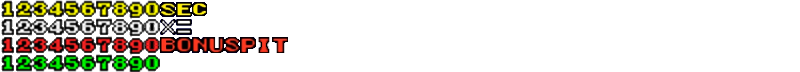
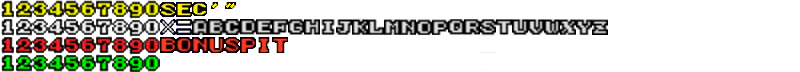
Save the time of each stage
Now when you hit a checkpoint you save
your time and this time is shown on the screen.

Changed region(s): [[0.2188, 0.25, 0.7812, 0.5], [0.25, 0.0278, 0.3125, 0.1389]]

diff --git a/SuperHandOn/SuperHandOn/ModuleSceneTrack.cpp b/SuperHandOn/SuperHandOn/ModuleSceneTrack.cpp
@@ -26,6 +26,9 @@ ModuleSceneTrack::ModuleSceneTrack(bool active) : Module(active)
 	backgroundSpeed = { 275, 441, 82, 18 };
 	backgroundKm = { 367, 441, 34, 18 };
 	finishPose = { 634, 1399, 96, 145 };
+	checkFill = { 51, 552, 31, 4 };
+	gameOver = { 1154,249,180,30 };
+	extendedPlay = { 1155,295,152,16 };
 
 	Decoration*dec_tree = new Decoration();
 	dec_tree->maxX = 4;
@@ -228,6 +231,7 @@ bool ModuleSceneTrack::Start()
 	score = 0;
 	speed = 0;
 	startTime = 0;
+	lapTime = 0;
 	N = 0;
 	pos = 0;
 	realPos = 0;
@@ -318,8 +322,8 @@ bool ModuleSceneTrack::Start()
 	decorationSprite = App->textures->Load("sprites/decoration.png");
 
 	//Gui fonts
-	App->numericFontYellow = App->font->LoadMedia("fonts/fontNumber18x18.png", "1234567890SEC ", 16, 18);
-	App->numericFontWhite = App->font->LoadMedia("fonts/fontNumber18x18.png", "1234567890*= ", 16, 18, 18);
+	App->numericFontYellow = App->font->LoadMedia("fonts/fontNumber18x18.png", "1234567890SEC'\" ", 16, 18);
+	App->numericFontWhite = App->font->LoadMedia("fonts/fontNumber18x18.png", "1234567890*=ABCDEFGHIJKLMNOPQRSTUVWXYZ ", 16, 18, 18);
 	App->numericFontRed = App->font->LoadMedia("fonts/fontNumber18x18.png", "1234567890BONUSPIT ", 16, 18, 36);
 	App->numericFontGreen = App->font->LoadMedia("fonts/fontNumber18x18.png", "1234567890", 16, 18, 54);
 
@@ -332,6 +336,13 @@ bool ModuleSceneTrack::Start()
 bool ModuleSceneTrack::CleanUp()
 {
 	LOG("Unloading space scene");
+	for (unsigned int i = 0; i < enemys.size(); i++) delete(enemys[i]);
+	for (unsigned int i = 0; i < decoration.size(); i++) delete(decoration[i]);
+	for (unsigned int i = 0; i < bioms.size(); i++) delete(bioms[i]);
+	delete(finishAnimation);
+
+	saveScore();
+
 	App->textures->Unload(graphics);
 	return true;
 }
@@ -400,10 +411,16 @@ void ModuleSceneTrack::PrintTrack(float deltaTime)
 		if (lines[n%N].id != -1) {
 			if ((startPos + 10) > n && n > (startPos + 5) && checkSign == lines[n%N].id && delayCheckPoint == 0) {
 				time += 30;
+				if (lapTime < stageTimeSaved[stage - 1]) stageTimeSaved[stage - 1] = lapTime;
 				delayCheckPoint += 5;
+				checkTime = 5;
+				lastLapTime = lapTime;
+				lapTime = 0;
+				stage++;
 			}
 			else if((startPos + 10) > n && n > (startPos + 5) && goalSign == lines[n%N].id && finished == RUNNING) {
 				finished = ANIMATION;
+				stage++;
 				finishAnimation->posZ = (float)(startPos + 7);
 				goalPos = finishAnimation->posZ;
 			}
@@ -576,6 +593,8 @@ void ModuleSceneTrack::PrintGui(float deltaTime) {
 	App->renderer->Blit(gui, (int)((SCREEN_WIDTH / 10) * 6.5), (int)((SCREEN_HEIGHT / 20) * 2 + 8), &backgroundSpeed, 0.f);
 	App->renderer->Blit(gui, (int)((SCREEN_WIDTH / 10) * 8.5) + 16, (int)((SCREEN_HEIGHT / 20) * 2 + 8), &backgroundKm, 0.f);
 	App->renderer->Blit(gui, (int)((SCREEN_WIDTH / 10) * 2.7), (int)((SCREEN_HEIGHT / 20) * 2 + 8), &backgroundTrackName, 0.f, false);
+	for(int i = 1; i < stage; i++)
+		App->renderer->Blit(gui, (SCREEN_WIDTH / 20) + 21 + ((i-1)*checkFill.w), (SCREEN_HEIGHT / 20) * 4 + 7, &checkFill, 0.f);
 
 	//Text
 	App->renderer->Print(App->numericFontRed, to_string((int)maxPuntuation).c_str(), (SCREEN_WIDTH / 10) + backgroundTop.w + 5, (SCREEN_HEIGHT / 20) + 4, 0.f, false);
@@ -586,7 +605,7 @@ void ModuleSceneTrack::PrintGui(float deltaTime) {
 		App->renderer->Print(App->numericFontRed, to_string((int)speed).c_str(), (int)((SCREEN_WIDTH / 10) * 6.5) + backgroundSpeed.w , (int)((SCREEN_HEIGHT / 20) * 2 + 8), 0.f, false);
 	App->renderer->Print(App->menusFont, to_string((int)time).c_str(), SCREEN_WIDTH / 2 , SCREEN_HEIGHT / 20 * 3, 0.f);
 	App->renderer->Print(App->numericFontWhite, to_string((int)stage).c_str(), (int)((SCREEN_WIDTH / 10) * 2.4), (int)((SCREEN_HEIGHT / 20) * 3), 0.f, false);
-
+	
 	if (finished == BONUS) {
 		App->renderer->Print(App->numericFontRed, "BONUS POINTS", (SCREEN_WIDTH / 2), (SCREEN_HEIGHT / 20) * 6, 0.f, true);
 		App->renderer->Print(App->menusFont, to_string((int)time).c_str(), (SCREEN_WIDTH / 20) * 5, SCREEN_HEIGHT / 20 * 7, 0.f);
@@ -596,24 +615,39 @@ void ModuleSceneTrack::PrintGui(float deltaTime) {
 		App->renderer->Print(App->numericFontYellow, " 00000", (SCREEN_WIDTH / 20) * 17, SCREEN_HEIGHT / 20 * 7 + 7, 0.f);
 		if (timeBonus > 0) timeBonus -= deltaTime;
 	}
+
+	if(time <= 0) 
+		App->renderer->Blit(gui, (SCREEN_WIDTH / 2) - gameOver.w/2, (SCREEN_HEIGHT / 3), &gameOver, 0.f);
+
+	if (checkTime > 0) {
+		if((int)checkTime % 2 == 0) App->renderer->Blit(gui, (int)((SCREEN_WIDTH / 2) - extendedPlay.w/2), (SCREEN_HEIGHT / 20) * 6, &extendedPlay, 0.f, false);
+		App->renderer->Print(App->numericFontWhite, "LAPTIME", (SCREEN_WIDTH / 2) - (8*18) + 8, (SCREEN_HEIGHT / 20) * 7, 0.f, false);
+		App->renderer->Print(App->numericFontYellow, getTimeFromFloat(lastLapTime).c_str(), (SCREEN_WIDTH / 2) + 16, (SCREEN_HEIGHT / 20) * 7, 0.f, false);
+		App->renderer->Print(App->numericFontWhite, "BEST LAPTIME", (SCREEN_WIDTH / 2) - (12*18), (SCREEN_HEIGHT / 20) * 8, 0.f, false);
+		App->renderer->Print(App->numericFontYellow, getTimeFromFloat(stageTimeSaved[stage-2]).c_str(), (SCREEN_WIDTH / 2) + 16, (SCREEN_HEIGHT / 20) * 8, 0.f, false);
+	}
+
 }
 
 
 // Update: draw background
 update_status ModuleSceneTrack::Update(float deltaTime)
 {
-	
-	//Automove On debugmode
-	//pos += 200;
+	if (time <= 0) {
+		run = false;
+	}
 
 	if (biomSwap) swapBioma(deltaTime);
 
 	if (run && finished == RUNNING) {
-		//pos += 200;
+
 		time -= deltaTime;
-		if (time < 0) time = 0;
 		delayCheckPoint -= deltaTime;
+		checkTime -= deltaTime;
+		lapTime += deltaTime;
 		if (delayCheckPoint < 0) delayCheckPoint = 0;
+		if (checkTime < 0) checkTime = 0;
+		if (time < 0) time = 0;
 
 		int segL = SEGL;
 		if (speed < MIN_SPEED) speed += acceleration*deltaTime;
@@ -680,7 +714,8 @@ update_status ModuleSceneTrack::Update(float deltaTime)
 			pos += 200 * (realPos / segL);
 			realPos -= 200 * (realPos / segL);
 		}
-		score += 200;
+
+		score += speed * deltaTime * 10;
 		
 		//Move player to compensate the force of the curve
 		int startPos = pos / SEGL;
@@ -706,6 +741,7 @@ update_status ModuleSceneTrack::Update(float deltaTime)
 		for (unsigned int i = 0; i < enemys.size(); i++) {
 			enemys.pop_back();
 		}
+		saveScore();
 		App->audio->PauseMusic();
 		App->fade->FadeToBlack((Module*)App->scene_menu_one, this);
 	}
@@ -836,4 +872,31 @@ void ModuleSceneTrack::swapBioma(float deltaTime)
 		else biomSwapBackgroundHelper = true;
 	}
 	if (swapFinished == 27) biomSwap = false;
+}
+
+string ModuleSceneTrack::getTimeFromFloat(float time)
+{
+	string result;
+	if (time > 60) {
+		result = "1'";
+		time -= 60;
+	}
+	else result = "0'";
+	result.append(to_string((int)time));
+	result.append("\"");
+	result.append(to_string((int)(time * 100) % 100));
+	return result;
+}
+
+void ModuleSceneTrack::saveScore()
+{
+	//Record the times
+	ofstream myScore;
+	string input;
+	myScore.open("level/africaStageTime.txt");
+
+	myScore << to_string(stageTimeSaved.size()) << endl;
+	for (int i = 0; i < stageTimeSaved.size(); i++) {
+		myScore << to_string(stageTimeSaved[i]) << endl;
+	}
 }

diff --git a/SuperHandOn/SuperHandOn/ModuleSceneTrack.h b/SuperHandOn/SuperHandOn/ModuleSceneTrack.h
@@ -3,6 +3,9 @@
 
 #include "Module.h"
 #include "Animation.h"
+#include <fstream>
+#include <iostream>
+#include <string>
 
 class Line;
 class ModuleEnemy;
@@ -83,6 +86,9 @@ public:
 	SDL_Rect backgroundSpeed;
 	SDL_Rect backgroundKm;
 	SDL_Rect backgroundTrackName;
+	SDL_Rect checkFill;
+	SDL_Rect gameOver;
+	SDL_Rect extendedPlay;
 
 	//SDL_Rect deadTree;
 
@@ -137,6 +143,8 @@ private:
 	void PrintGui(float deltaTime);
 	bool TrentToN(int n, int &res, float deltaTime, float &animationTime);
 	void swapBioma(float deltaTime);
+	string getTimeFromFloat(float time);
+	void saveScore();
 
 protected:
 	Animation greenZero;
@@ -176,6 +184,9 @@ protected:
 	unsigned int sempahorState = 0;
 
 	float mostAdvancedEnemyZ;
+	float checkTime;
+	float lapTime;
+	float lastLapTime;
 
 	int currentBiomId;
 	//BiomsIds
@@ -187,6 +198,8 @@ protected:
 	vector<Bioma*> bioms;
 	float updateBiomTimer;
 	bool biomSwapBackgroundHelper;
+
+	vector<float>stageTimeSaved;
 };
 
 #endif // __ModuleSceneTrack_H__

diff --git a/SuperHandOn/SuperHandOn/ModuleSceneMapAfrica.cpp b/SuperHandOn/SuperHandOn/ModuleSceneMapAfrica.cpp
@@ -95,6 +95,18 @@ bool ModuleSceneMapAfrica::Start(){
 	float lastValue = 0;
 	bool mustAlign = false;
 
+	//Load segments times
+	ifstream myScore;
+	string input;
+	myScore.open("level/africaStageTime.txt");
+	getline(myScore, input);
+	int seg = stoi(input);
+	for (int i = 0; i < seg; i++) {
+		getline(myScore, input);
+		stageTimeSaved.push_back(stof(input));
+	}
+
+	//Create the track
 	for (int i = 0; i < 10; i++) {
 		Line line;
 		line.z = (float)lines.size() * line.segL;
@@ -103,7 +115,7 @@ bool ModuleSceneMapAfrica::Start(){
 	int startSignPos = 10, oldIdDecoration;
 	bool setSwapBiom = false;
 	ifstream myfile;
-	string input;
+
 	myfile.open("level/africa.txt");
 	if (myfile.is_open())
 	{

diff --git a/SuperHandOn/SuperHandOn/ModuleSceneMapAfrica.h b/SuperHandOn/SuperHandOn/ModuleSceneMapAfrica.h
@@ -3,9 +3,6 @@
 
 #include "Animation.h"
 #include "ModuleSceneTrack.h"
-#include <fstream>
-#include <iostream>
-#include <string>
 using namespace std;
 
 
